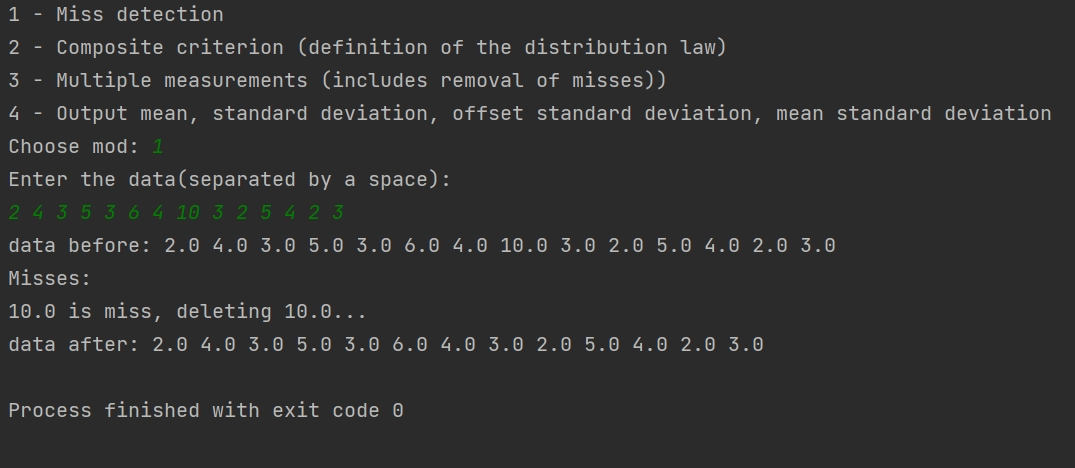
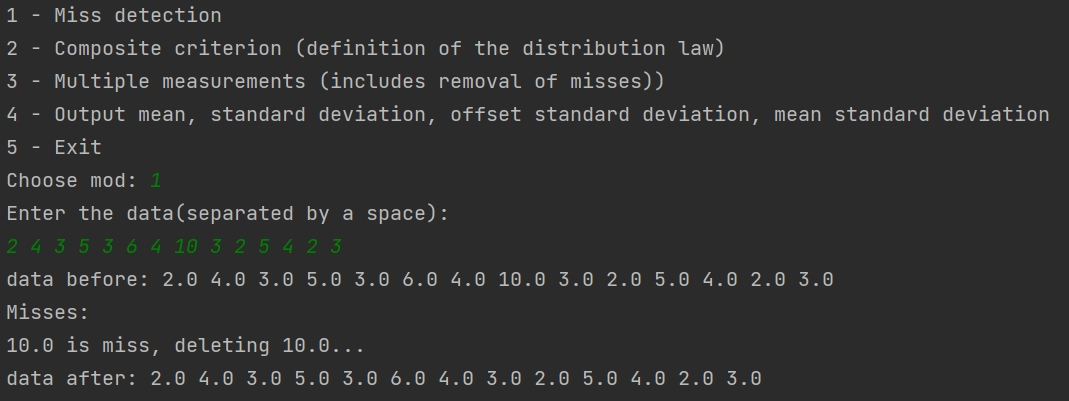
add images to README.md

diff --git a/main.py b/main.py
@@ -39,10 +39,10 @@ def composite_criterion(data):
     d = sum(list(map(lambda x: abs(x - mean), data))) / (n * sigma_offset)
     print("d: ", d)
 
-    d_min, d_max = map(float, input(f"Enter d_min and d_max for n = {n}(look appendix table 5): ").split())
+    d_min, d_max = map(float, input(f"Enter the d_min and d_max for n = {n} (look appendix table 5): ").split())
 
     if d_min < d < d_max:
-        z, m_table = map(float, input(f"Enter table values \"z\" and \"m\" for n = {n}(look appendix table 6): ").split())
+        z, m_table = map(float, input(f"Enter the table values \"z\" and \"m\" for n = {n} (look appendix table 6): ").split())
         m = sum(list(map(lambda x: 1 if abs(mean - x) > z * sigma else 0, data)))
 
         if m < m_table:
@@ -54,62 +54,66 @@ def composite_criterion(data):
 
 
 def main():
-    print("1 - Miss detection")
-    print("2 - Composite criterion (definition of the distribution law)")
-    print("3 - Multiple measurements (includes removal of misses))")
-    print("4 - Output mean, standard deviation, offset standard deviation, mean standard deviation")
-    mode = int(input("Choose mod: "))
-    data = list(map(float, input("Enter the data(separated by a space):\n").split()))
+    mode = 0
+    while mode < 5:
+        print("1 - Miss detection")
+        print("2 - Composite criterion (definition of the distribution law)")
+        print("3 - Multiple measurements (includes removal of misses))")
+        print("4 - Output mean, standard deviation, offset standard deviation, mean standard deviation")
+        print("5 - Exit")
+        mode = int(input("Choose mod: "))
+        if mode > 4:
+            break
+        data = list(map(float, input("Enter the data(separated by a space):\n").split()))
 
-    if mode == 1:  # misses
-        print("data before:", *data)
-        print("Misses:")
-        print("data after:", *lose(data))
+        if mode == 1:  # misses
+            print("data before:", *data)
+            print("Misses:")
+            print("data after:", *lose(data))
 
-    if mode == 2:  # composite criterion
-        if len(data) < 15:
-            print("Belonging to the normal distribution law isn't checked")
-        elif composite_criterion(data):
-            print("The data doesn't belong to the normal distribution law")
-        else:
-            print("The data belong to the normal distribution law")
+        if mode == 2:  # composite criterion
+            if len(data) < 15:
+                print("Belonging to the normal distribution law isn't checked")
+            elif composite_criterion(data):
+                print("The data doesn't belong to the normal distribution law")
+            else:
+                print("The data belong to the normal distribution law")
 
-    if mode == 3:  # multiple measurements
-        print("data before:", *data)
-        print("Misses:")
-        data = lose(data)
-        print("data after:", *data)
+        if mode == 3:  # multiple measurements
+            print("data before:", *data)
+            print("Misses:")
+            data = lose(data)
+            print("data after:", *data)
 
-        if composite_criterion(data):
-            print("The data doesn't belong to the normal distribution law")
-        else:
-            print("The data belong to the normal distribution law")
+            if composite_criterion(data):
+                print("The data doesn't belong to the normal distribution law")
+            else:
+                print("The data belong to the normal distribution law")
 
-        n = len(data)
-        mean = np.mean(data)
+            n = len(data)
+            mean = np.mean(data)
 
-        sigma = standard_deviation(data)
-        sigma_mean = sigma / n ** 0.5
-        print("data:", *data)
-        print("n:", n)
-        print("mean:", mean)
-        print("standard deviation:", sigma)
-        print("mean standard deviation:", sigma_mean)
+            sigma = standard_deviation(data)
+            sigma_mean = sigma / n ** 0.5
 
-    if mode == 4:
-        n = len(data)  # count of measurements
-        mean = np.mean(data)
-        sigma = standard_deviation(data)
-        sigma_offset = offset_standard_deviation(data)
-        # mean standard deviation = sigma/sqrt(n)
-        sigma_mean = sigma / n ** 0.5
+            print("n:", n)
+            print("mean:", mean)
+            print("standard deviation:", sigma)
+            print("mean standard deviation:", sigma_mean)
 
-        print("data:", *data)
-        print("n:", n)
-        print("mean:", mean)
-        print("standard deviation:", sigma)
-        print("offset standard deviation:", sigma_offset)
-        print("mean standard deviation:", sigma_mean)
+        if mode == 4:
+            n = len(data)  # count of measurements
+            mean = np.mean(data)
+            sigma = standard_deviation(data)
+            sigma_offset = offset_standard_deviation(data)
+            # mean standard deviation = sigma/sqrt(n)
+            sigma_mean = sigma / n ** 0.5
+
+            print("n:", n)
+            print("mean:", mean)
+            print("standard deviation:", sigma)
+            print("offset standard deviation:", sigma_offset)
+            print("mean standard deviation:", sigma_mean)
 
 
 if __name__ == "__main__":
